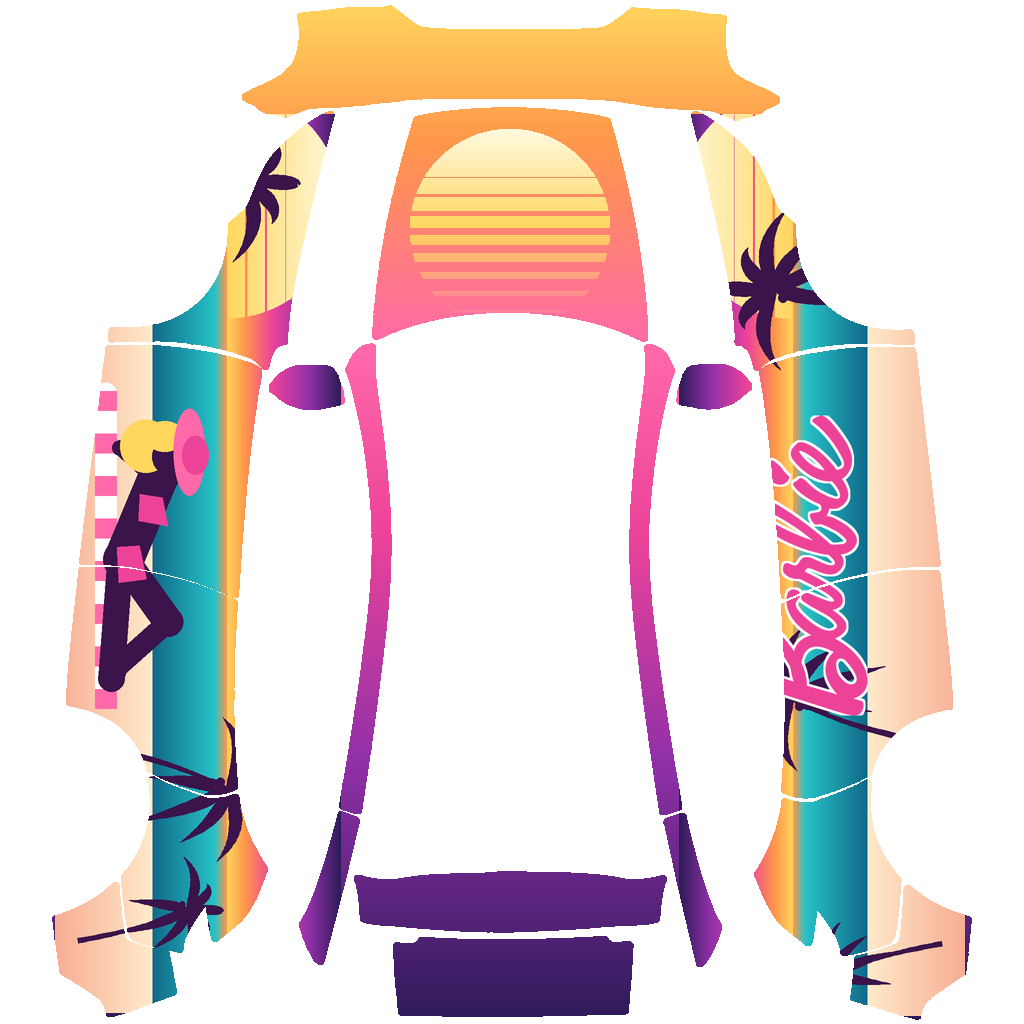
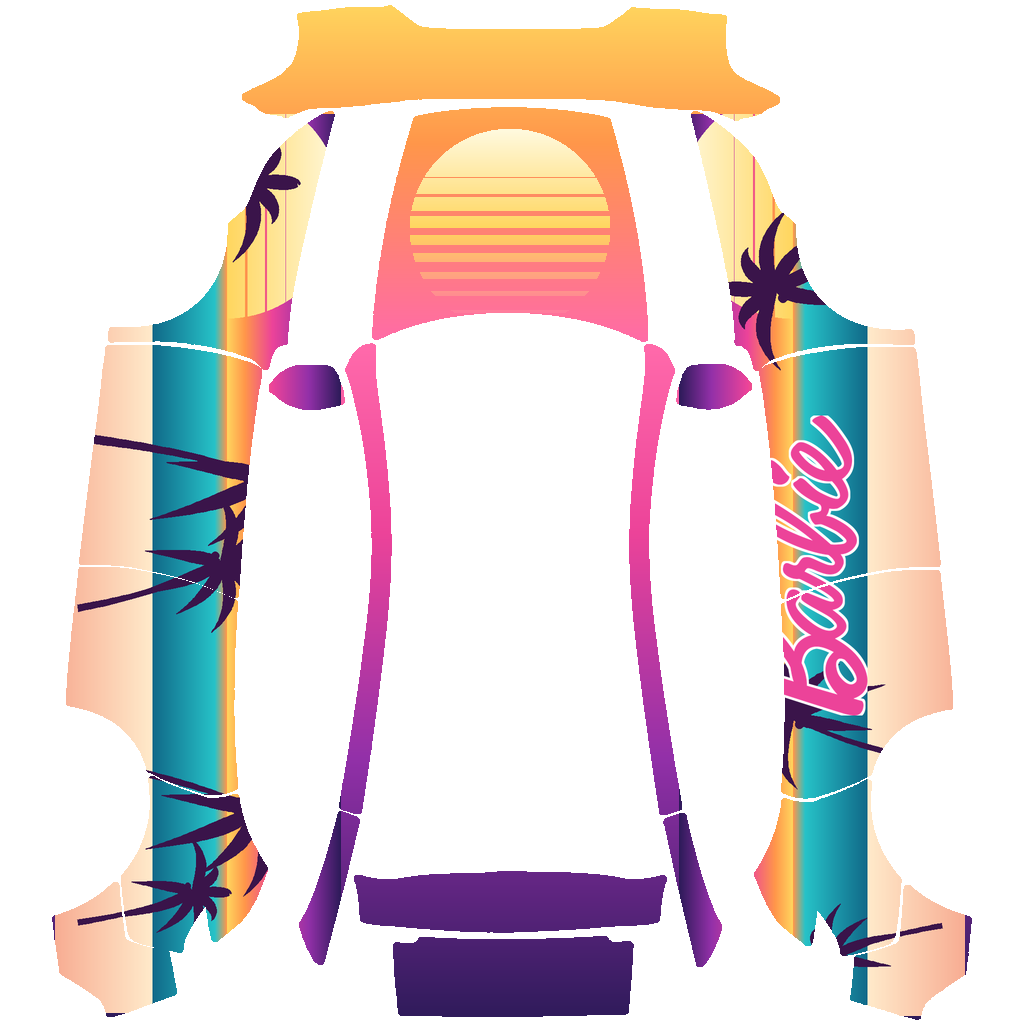
Drop the sunbather from the Miami Barbie wrap
The reclining figure was built out of tapered ribbons and never got past
looking like assembled primitives, so it comes out rather than shipping
below the standard of the rest of the wrap.

The flank that carried it now runs a full palm grove instead, five trees
against the sunset rather than three, so it reads as a composed scene
rather than empty beach. The wordmark side keeps its middle clear and is
unchanged. capsule() and sunbather() are gone, along with the last
callers of the former.

Claude-Session: https://claude.ai/code/session_013EkZgiNsg33ygaCfzbPHPd

diff --git a/tools/gen_barbie_beach_wrap.py b/tools/gen_barbie_beach_wrap.py
@@ -2,8 +2,7 @@
 """Generate the Miami Barbie beach wrap for the Model Y (2025+) Premium template.
 
 A sunset beach scene wrapped along both flanks: palm trees over sand and ocean
-under a Miami sunset, with a sunbather reclining across the left side of the
-car and the Barbie wordmark across the right.
+under a Miami sunset, with the Barbie wordmark across the right flank.
 
 Each flank is painted as one continuous scene rather than panel by panel, so
 the horizon and the palms run unbroken from the front fender to the rear
@@ -98,13 +97,6 @@ def vertical_ramp(draw, x0, x1, y0, y1, stops):
         draw.line([(x0, y), (x1, y)], fill=ramp(stops, (y - y0) / max(1, y1 - y0)))
 
 
-def capsule(d, p0, p1, w, color):
-    """A thick line with round ends -- the building block for the figure."""
-    d.line([p0, p1], fill=color, width=int(w))
-    for x, y in (p0, p1):
-        d.ellipse([x - w / 2, y - w / 2, x + w / 2, y + w / 2], fill=color)
-
-
 def bezier(p0, p1, p2, n=44):
     return [((1 - t) ** 2 * p0[0] + 2 * (1 - t) * t * p1[0] + t * t * p2[0],
              (1 - t) ** 2 * p0[1] + 2 * (1 - t) * t * p1[1] + t * t * p2[1])
@@ -141,35 +133,6 @@ def palm(d, x, ground, height, lean, color):
         r = height * 0.028
         d.ellipse([cx + dx * height - r, cy + dy * height - r,
                    cx + dx * height + r, cy + dy * height + r], fill=color)
-
-
-def sunbather(d, cx, cy, k):
-    """A reclining figure in flat silhouette, hair and swimsuit picked out in
-    color. The design is laid out about 340 wide by 130 tall, then scaled by k
-    and centred on cx, cy. Head toward the nose of the car."""
-    def p(a, b):
-        return (cx + (a - 170) * k, cy + (b - 64) * k)
-
-    d.rounded_rectangle([p(-34, 104), p(334, 128)], radius=12 * k, fill=WHITE)
-    for i in range(8):
-        d.rectangle([p(-24 + i * 48, 104), p(-2 + i * 48, 128)], fill=HOT)
-
-    capsule(d, p(168, 100), p(300, 110), 30 * k, SHADOW)      # far leg
-    capsule(d, p(70, 56), p(166, 96), 46 * k, SHADOW)         # torso
-    capsule(d, p(166, 96), p(236, 46), 34 * k, SHADOW)        # thigh
-    capsule(d, p(236, 46), p(288, 104), 24 * k, SHADOW)       # calf
-    d.ellipse([p(280, 94), p(306, 116)], fill=SHADOW)         # foot
-    capsule(d, p(74, 62), p(40, 100), 18 * k, SHADOW)         # propping arm
-    capsule(d, p(58, 50), p(74, 60), 17 * k, SHADOW)          # neck
-
-    d.ellipse([p(8, 42), p(68, 100)], fill=GOLD)              # hair behind
-    d.ellipse([p(28, 20), p(72, 64)], fill=SHADOW)            # head
-    d.ellipse([p(10, 28), p(44, 72)], fill=GOLD)              # hair in front
-    d.ellipse([p(-4, 4), p(94, 40)], fill=HOT)                # sun hat brim
-    d.ellipse([p(26, 0), p(70, 30)], fill=PINK)               # hat crown
-
-    d.polygon([p(96, 52), p(128, 46), p(122, 80), p(92, 78)], fill=PINK)
-    d.polygon([p(150, 78), p(188, 70), p(192, 102), p(152, 104)], fill=PINK)
 
 
 def sliced_sun(w, h, cx, cy, r, cut_below=None):
@@ -217,12 +180,16 @@ def flank_scene(length, height, side, wordmark):
         d.rounded_rectangle([sx - half, y, sx + half, y + 2.5 * SS],
                             radius=2 * SS, fill=(255, 240, 210))
 
-    for s, hgt, lean in ((0.135, 0.58, -0.19), (0.70, 0.52, 0.16), (0.92, 0.38, -0.11)):
-        palm(d, along(side, s, L), H * 0.92, H * hgt, lean * H, SHADOW)
+    # The wordmark side keeps its middle clear; the other flank carries a full
+    # grove so it reads as a composed scene rather than empty beach.
+    grove = ((0.135, 0.58, -0.19), (0.36, 0.66, 0.14), (0.55, 0.50, -0.16),
+             (0.72, 0.62, 0.17), (0.90, 0.40, -0.11))
+    if side == "right":
+        grove = ((0.135, 0.58, -0.19), (0.72, 0.52, 0.16), (0.90, 0.38, -0.11))
+    for s_, hgt, lean in grove:
+        palm(d, along(side, s_, L), H * 0.92, H * hgt, lean * H, SHADOW)
 
-    if side == "left":
-        sunbather(d, along(side, 0.50, L), H * 0.66, H * 0.0031)
-    else:
+    if side == "right":
         target_h = int(H * 0.52)
         mark = wordmark.resize((int(target_h * wordmark.width / wordmark.height), target_h),
                                Image.LANCZOS)
